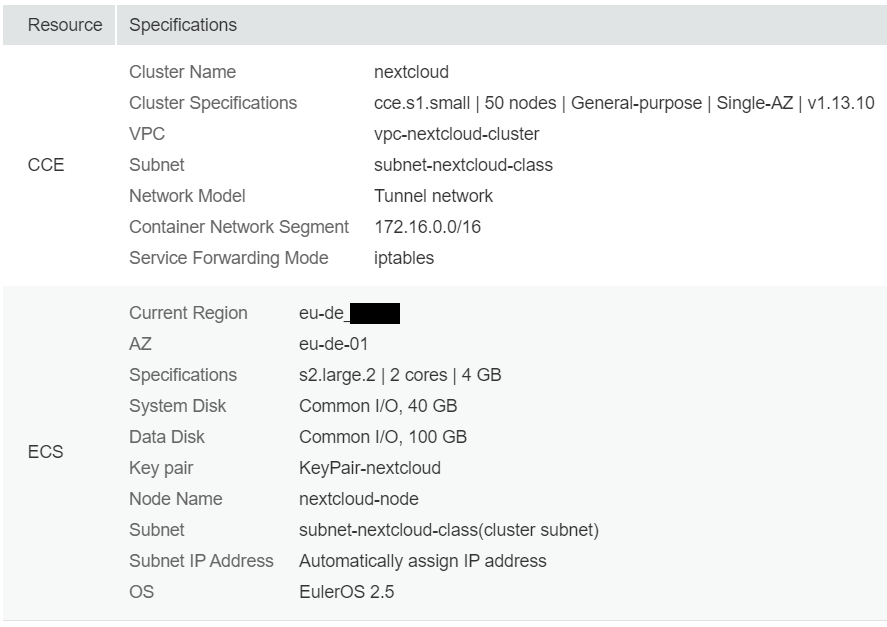
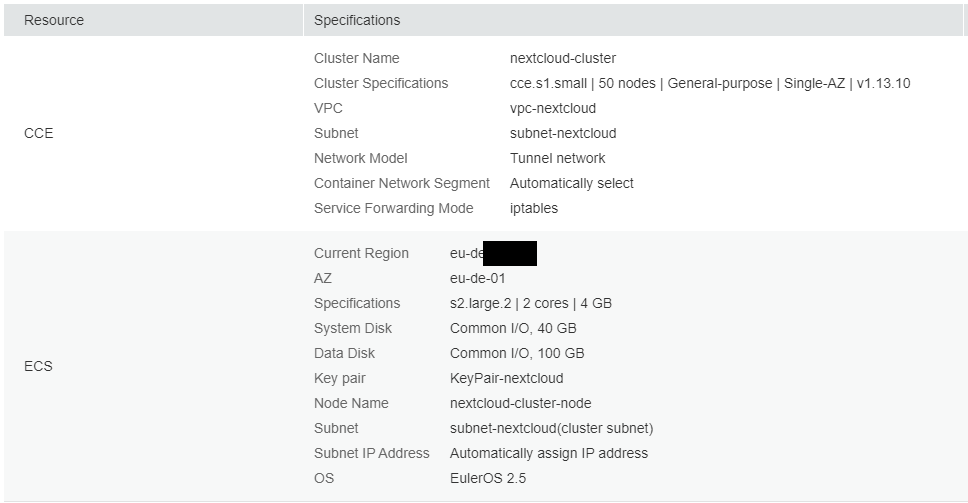
complete documentation and certificate creation

diff --git a/README.md b/README.md
@@ -6,6 +6,12 @@ The following tutorial explains how to host the file sharing and collaboration p
 
 Care has been taken to ensure that the process is easy to understand. If not described otherwise, the default settings can be used. tbd.
 
+## Collaborators
+
+This tutorial was created at [T-Systems-Multimedia Solutions GmbH](https://www.t-systems-mms.com/) by @masp0, @mrwhiteHD, @nemental and @mschwrdtnr.
+
+<!-- todo: write names with links -->
+
 ## Tutorial
 
 ### 1. Create Virtual Private Cloud (VPC)
@@ -16,7 +22,7 @@ At first we will create a [Virtual Private Cloud (VPC)](https://docs.otc.t-syste
 2. Choose a VPC Name and a Subnet Name
 3. Click "Create Now"
 4. Go "Back to VPC List"
-5. Choose your created VPC and activate SNAT
+5. Choose your created VPC and activate SNAT <!-- Why ?-->
 
 ### 2. Create Cloud Container Engine (CCE)
 
@@ -24,20 +30,21 @@ Now we will create a [Cloud Container Engine (CCE)](https://docs.otc.t-systems.c
 
 1. Navigate to CCE and click "Create VM Cluster"
 2. Choose a Cluster Name
-3. High Availability: "No"
+3. High Availability: "No" <!-- Why? -->
 4. Choose your created VPC and Subnet
-5. You have to check "I am aware of the above limitations and read the CCE Role Management Instructions" and can go to the next site
-6. Choose a Node Name and the Specifications you need. The smallest flavor could be enough
-7. Be sure that your created subnet is used
-8. Choose a Key Pair, if you have not one, create a key pair
-9. Go to next the page, skip one and check your Details on the last page. If everything is okay you can click "Submit". This will create your Cluster.
-   <details>
-   <summary>
-   <b>Click here to view our CCE Details</b>
-   </summary>
-   <img src=/docs/assets/CCE_Details.png width=75%>
-   </details>
-10. Submit and wait a little bit. The Cluster will be created in 5 to 10 minutes. Meanwhile we can create the other related services.
+5. Let the "Container Network Segement" automatically select <!-- Why? -->
+6. You have to check "I am aware of the above limitations and read the CCE Role Management Instructions" and can go to the next site
+7. Choose a Node Name and the Specifications you need. The smallest flavor could be enough
+8. Be sure that your created subnet is used
+9. Choose a Key Pair. If you have none, create a key pair.
+10. Go to next the page, skip one and check your Details on the last page. If everything is okay you can click "Submit". This will create your Cluster.
+    <details>
+    <summary>
+    <b>Click here to view our CCE Details</b>
+    </summary>
+    <img src=/docs/assets/cce_details.png width=100%>
+    </details>
+11. Submit and wait a little bit. The Cluster will be created in 5 to 10 minutes. Meanwhile we can create the other related services.
 
 ### 3. Create Relational Database Service (RDS)
 
@@ -45,25 +52,54 @@ Now we will create the Database for our Nextcloud. We use the [Relational Databa
 
 1. Navigate to RDS and create a DB Instance
 2. Choose a DB Instance Name
-3. You can use the smallest Memory and the cheaper Storage Type "Common I/O". According to Nextcloud 20GB per User is enough for the beginning.
-4. Be sure that your created VPC will choosen
-5. Choose an Administrator Password and click "Create Now"
-6. Check the Details and Submit if everything is fine
+3. Choose the "DB Instance Type" Single for development or testing scenerios. This is cheaper.
+4. You can use the smallest Memory and the cheaper Storage Type "Common I/O". According to Nextcloud 20GB per User is enough for the beginning.
+5. Be sure that your created VPC will choosen
+6. Choose an Administrator Password and click "Create Now"
+7. Check the Details and Submit if everything is fine
    <details>
    <summary>
    <b>Click here to view our RDS Details</b>
    </summary>
-   <img src=/docs/assets/RDS_Details.png width=100%>
+   <img src=/docs/assets/rds_details.png width=100%>
    </details>
 
-### 4. Create Elastic Load Balancer (ELB)
+<!-- Hinzufügen der Security Group
+Source stand nur defualt drin, aber brauchen 0.0.0.0
+wo soll der Pubkt hin?
+-->
+
+### 5. Create a persistent Volume
+
+If the cluster is created you can create the persistent Volume.
+
+1. Go back to CCE, go to "Resource Management" on the left navbar and go to Storage
+2. Choose [Scalable File Service](https://docs.otc.t-systems.com/sfs/index.html) and create a SFS Disk
+3. Choose a Name (e.g. nextcloud-data), check the Details and click "Submit"
+4. Create a second SFS Disk with the same settings and the name "nextcloud-config"
+   <!-- Warum werden zwei benötigt? -->
+
+### 6. Create the Deployment
+
+The last step is creating the Deployment.
+
+1. Switch to Workloads on the left navbar and click "Create Deployment"
+2. **Only choose one instance.** Nextcloud is not scalable at the time of this guide.
+3. Click "Next" and "Add Container"
+4. Select a Third-party Image with the adress "Nextcloud". The latest nextcloud image will be chosen from [dockerhub](https://hub.docker.com/_/nextcloud/).
+5. Click "OK" and scroll down to "Environment Variables" and add one with Type _Added manually_, Variable Name _NEXTCLOUD_TRUSTED_DOMAINS_ and your in Point X created adress. <!-- Warum ist dieser Punkt nötig? Wir erstellen die Adresse erst später. Wenn wir über die IP anstatt den DNS Namen zugreifen möchten erhalten wir die Meldung, dass Zugriff nur über vertrauenswürdige Domains möglich ist-->
+6. Go to Data Storage, select Cloud Storage and add your created SFS Storages. Set the Container Path for your nextcloud-config storage to _/var/www/html/config_ and for your nextcloud-data storage to _/var/www/html/data_.
+7. Go to the next page and add a Service with the Access Type _Node access_.
+8. Set the Container Port to 80 and the Access Port as _Specified Port_ to 30080. Click "OK".
+9. Skip the advanced settings and "Create" the Deployment
+
+### 6. Create Elastic Load Balancer (ELB)
 
 We will also need an [Elastic Load Balancer (ELB)](https://docs.otc.t-systems.com/elb/index.html).
 
 1. Navigate to ELB and "Create Enhanced Load Balancer"
-2. Choose your created VPC and the Bandwidth you want
-3. Choose a name for your ELB and create the Load Balancer.
-4. Check the Details and Submit if everything is fine
+2. Choose your created VPC and the Bandwidth you want and a name.
+3. Check the Details and Submit if everything is fine
    <details>
    <summary>
    <b>Click here to view our ELB Details</b>
@@ -71,39 +107,53 @@ We will also need an [Elastic Load Balancer (ELB)](https://docs.otc.t-systems.co
    <img src=/docs/assets/ELB_Details.png width=100%>
    </details>
 
+#### 6.1 Create a Certificate
+
+<!-- Sollte umgeschrieben werden -->
+
+To enter your page via https you need to have a Certificate. If you already have your own, go to Certificates and upload it with "Create Certificate". If you do not have one, view our short guide [How to create a self signed Certificate with openSSL](docs/CREATE_CERTIFICATE.md).
+
+#### 6.2 Add ELB Listeners
+
+Now we will create listeners for the https redirections.
+
+1. Go to your created ELB "Listeners"
+2. Add a https listener with the name "listener-https" and choose your server certificate.
+3. Create a Server Group and deactivate "Health Check"
+4. Now go to "Backend Server Groups" and add your nextcloud-cluster-node with the Backend Port _30080_ to your ELB.
+5. Now add a http listener with the name "listener-http" and redirect it to your created https-listener.
+
 Note: In this step an [Elastic IP](https://docs.otc.t-systems.com/eip/index.html) will be automatically created for you.
 
-### 5. Create a persistent Volume
+#### 6.3 Create a Domain Name Service (DNS)
 
-If the cluster is created you can create the persistent Volume.
+<!-- more information?-->
 
-1. Go back to CCE, go to "Resource Management" on the left navbar and go to Storage
-2. Choose [Elastic Volume Service (EVS)](https://docs.otc.t-systems.com/evs/index.html) and create an EVS Disk
-3. Choose a Name, check the Details and click "Submit"
+If you want you can also create a DNS for your adress to open your page with a specific name. Otherwise you can use the EIP of your node.
+
+1. Search for [DNS](https://docs.otc.t-systems.com/dns/index.html), click on "Public Zones", the Top-Level-Domain of OTC _otc-on-rails.de_ and add a Record Set.
+2. Choose a name for your server
+3. Add your EIP of your created ELB to "Value".
+
+### 7. Nextcloud First Configurations
+
+If the deployment creation was successfull you can open nextcloud on your created DNS-Name.
+At the first start you have to create an admin account. Then you have to set up the database.
+
+1. Choose _MySQL/MariaDB_ cause we are using the Relational Database Service
+   1a. Username: root
+   1b. Password: _your created password for the RDS_
+   1c. Name: _your RDS Name_
+   1d. Adress: _the floating IP Adress of your RDS with the port number_
+   (You can find the information at your RDS/Connection Information)
    <details>
-      <summary>
-      <b>Click here to view our EVS Details</b>
-      </summary>
-      <img src=/docs/assets/evs_Details.png width=50%>
-      </details>
+   <summary>
+   <b>Click here to view our Nextcloud Configuration Settings</b>
+   </summary>
+   <img src=/docs/assets/nextcloud_details.png width=50%>
+   </details>
+2. Now you can click on "Complete Installation" and your Nextcloud will configured.
 
-### 6. Create the Deployment
-
-The last step is creating the Deployment.
-
-1. Switch to Workloads on the left navbar and click "Create Deployment"
-2. Only choose one instance. Nextcloud is not scalable at the time of this guide.
-3. Click "Next" and "Add Container"
-4. Select a Third-party Image with the adress "Nextcloud". The latest nextcloud image will be chosen from [dockerhub](https://hub.docker.com/_/nextcloud/)
-5. Click "OK" and scroll down to "Data Storage"
-6. Select Cloud Storage and add one. Choose your created EVS Storage and set the container path to _/var/www/html_
-7. Click "OK" and skip the next page.
-8. Now add a Service with the Access Type "Load Balancer"
-9. Choose the automatic created ELB under "Automatic creation". Set the Container Port to _80_ and the Access Port to _80_
-10. Click next, skip the advanced settings and "Create" the Deployment
-
-### 7. Nextcloud Configuration
-
-If the deployment creation was successfull you can open nextcloud on the given address under Workloads/Deployments. tbd..
+## Troubleshooting
 
 ## Other useful links

diff --git a/docs/CREATE_CERTIFICATE.md b/docs/CREATE_CERTIFICATE.md
@@ -1,0 +1,31 @@
+# Creation and upload of a self signed Certificate for Open Telekom Cloud (OTC)
+
+## 1. Creation of a self signed Certificate with openSSL and Linux Shell
+
+**1. Create a folder where the certificate will be saved**
+
+`sudo mkdir keys`
+
+**2. Create a Private Key**
+
+`sudo openssl genrsa -out "./keys/cert.key" 2048`
+
+> For a 4096 bit key you can change the last number
+
+**3. Certification Request**
+`sudo openssl req -new -key "./keys/cert.key" -out "./keys/cert.csr"`
+
+> You can answer or skip all questions. Everything can be left except of "Common Name". This could be your DNS Name. You can also skip the extra attributes.
+
+**4. Create Certificate**
+`sudo openssl x509 -req -days 365 -in "./keys/cert.csr" -signkey "./keys/cert.key" -out "./keys/cert.crt"`
+
+> The Certificate will be validated for 365 Days
+
+## 2. Upload the Key to Open Telekom Cloud (OTC)
+
+1. Go to your created Elastic Load Balancer
+2. Click on "Certificates" on the left navbar and "Create Certificate"
+3. Choose a Certificate Name
+4. Enter your Certificate Content or upload the file (Content of _cert.crt_)
+5. Enter your Private Key or upload the file (Content of _cert.key_)
